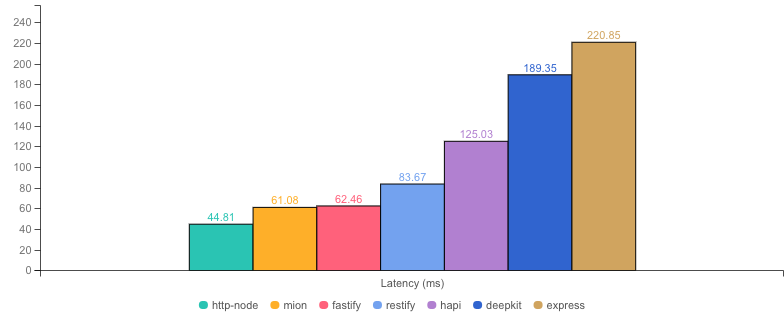
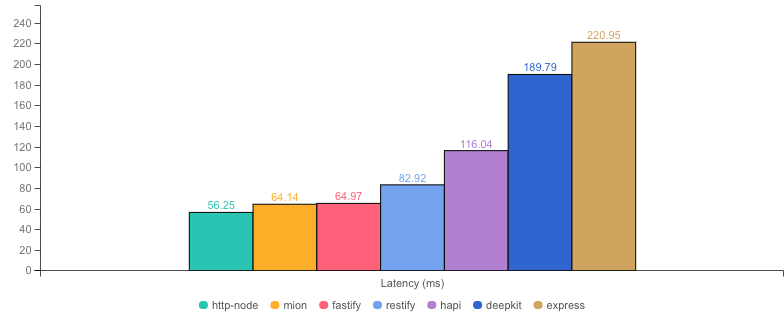
update some competitors libraries to lates version and fix mion benchmarks returning errors and run lates mion version 5d97e1c302cd3de043f1e435c154db6452047a0c

diff --git a/lib/autocannon.js b/lib/autocannon.js
@@ -32,10 +32,9 @@ const run = (opts = {}, handler) =>
     opts.method = "POST";
 
     // TODO: Move post param to pacakges
-    opts.body =
-      handler === "mion"
-        ? '{"updateUser":[{"id":123,"name":"john","surname":"smith","lastUpdate":"2020-12-17T02:24:00.000Z"}]}'
-        : '{"id":123,"name":"john","surname":"smith","lastUpdate":"2020-12-17T02:24:00.000Z"}';
+    opts.body = handler.includes("mion")
+      ? '{"updateUser":[{"id":123,"name":"john","surname":"smith","lastUpdate":"2020-12-17T02:24:00.000Z"}]}'
+      : '{"id":123,"name":"john","surname":"smith","lastUpdate":"2020-12-17T02:24:00.000Z"}';
     opts.headers = {
       accept: "*/*",
       "Content-Type": "application/json",
@@ -61,7 +60,7 @@ const run = (opts = {}, handler) =>
         }
       });
     }, 1000);
-    autocannon(opts, (err, result) => {
+    const atc = autocannon(opts, (err, result) => {
       clearInterval(memCheck);
       if (err) {
         reject(err);
@@ -75,6 +74,9 @@ const run = (opts = {}, handler) =>
         });
       }
     });
+    // atc.on("reqError", (err) => {
+    //   console.error(err);
+    // });
   });
 
 const writeResult = async (handler, result) => {

diff --git a/benchmarks/restify.js b/benchmarks/restify.js
@@ -43,14 +43,14 @@ const deserializeUser = (jsonParseResult) => {
 const server = restify.createServer();
 server.use(restify.plugins.bodyParser({}));
 
-server.post("/updateUser", function (req, res) {
+server.post("/updateUser", function (req, res, next) {
   const rawUser = req.body;
   if (!isUser(rawUser)) {
     res.statusCode = 400;
     res.send({
       error: "invalid parameter, not a user",
     });
-    return;
+    return next();
   }
   const user = deserializeUser(rawUser); // we would need to deserialize to be able to use date etc
   user.lastUpdate.setMonth(user.lastUpdate.getMonth() + 1);
@@ -60,9 +60,10 @@ server.post("/updateUser", function (req, res) {
   });
 });
 
-server.post("/", function (req, res) {
+server.post("/", function (req, res, next) {
   res.contentType = "json";
   res.send({ hello: "world" });
+  return next();
 });
 
 server.listen(3000);

diff --git a/lib/bench.js b/lib/bench.js
@@ -13,6 +13,11 @@ const doBench = async (opts, handler) => {
     forkedPid: forked.pid,
     ...opts,
   };
+
+  spinner.color = "magenta";
+  spinner.text = `starting server for ${handler}, waiting 3s`;
+  await new Promise((resolve) => setTimeout(resolve, 3000));
+
   try {
     // warm up only half the time
     const reducedTimeOpts = {

diff --git a/benchmarks/fastify.js b/benchmarks/fastify.js
@@ -76,4 +76,4 @@ fastify.post("/updateUser", updateUserOpts, async function (req, reply) {
   reply.send(user);
 });
 
-fastify.listen({ port: 3000, host: "127.0.0.1" });
+fastify.listen({ port: 3000, host: "localhost" });

diff --git a/benchmarks/mion-callbacks.js b/benchmarks/mion-callbacks.js
@@ -1,6 +1,5 @@
 "use strict";
 
-const { use } = require("h3");
 const {
   initHttp,
   addRoutes,

diff --git a/README.md b/README.md
@@ -98,9 +98,9 @@ Throughput is usually bigger on mion as we send/receive some more metadata in th
 ## Benchmark Results
 
 * __Machine:__ darwin x64 | 8 vCPUs | 16.0GB Mem
-* __Node:__ `v16.18.0`
-* __Run:__ Mon Jul 31 2023 02:20:30 GMT+0100 (Irish Standard Time)
-* __Method:__ `autocannon -c 100 -d 40.04 -p 10 localhost:3000` (two rounds; one to warm-up, one to measure)
+* __Node:__ `v18.17.0`
+* __Run:__ Mon Aug 07 2023 00:42:00 GMT+0100 (Irish Standard Time)
+* __Method:__ `autocannon -c 100 -d 42 -p 10 localhost:3000` (two rounds; one to warm-up, one to measure)
 
 #### Req (R/s) 
 
@@ -134,10 +134,10 @@ Throughput is usually bigger on mion as we send/receive some more metadata in th
 
 |           | Version        | Router | Req (R/s)   | Latency (ms) | Output (Mb/s) | Max Memory (Mb) | Max Cpu (%) | Validation | Description                                                                                                |
 | :--       | --:            | --:    | :-:         | --:          | --:           | --:             | --:         | :-:        | :--                                                                                                        |
-| http-node | 16.18.0        | ✗      | 22079.6     | 44.81        | 4.57          | 76              | 121         | ✗          | Super basic and completely useless bare http server, should be the theoretical upper limit in performance. |
-| **mion**  | **0.1.0**      | **✓**  | **16241.6** | **61.08**    | **4.49**      | **159**         | **143**     | **✓**      | **validation and serialization out of the box**                                                            |
-| fastify   | 4.19.2         | ✓      | 15876.0     | 62.46        | 3.83          | 86              | 121         | -          | Validation is done using schemas and ajv. Schemas must be generated manually or using third party tools.   |
-| restify   | 8.6.1          | ✓      | 11874.2     | 83.67        | 3.05          | 93              | 122         | ✗          | Requires third party tools.                                                                                |
-| hapi      | 20.3.0         | ✓      | 7956.1      | 125.03       | 1.91          | 97              | 126         | ✗          | Manual validation using joi, or third party tools.                                                         |
-| deepkit   | 1.0.1-alpha.75 | ✓      | 5261.4      | 189.35       | 1.26          | 171             | 152         | ✓          | Automatic validation out of the box (The ones that made @deepkit/types), Their rpc is way more performant. |
-| express   | 4.18.2         | ✓      | 4507.0      | 220.85       | 1.08          | 106             | 124         | ✗          | needs third party tools, or third party tools                                                              |
+| http-node | 16.18.0        | ✗      | 17610.1     | 56.25        | 4.23          | 85              | 116         | ✗          | Super basic and completely useless bare http server, should be the theoretical upper limit in performance. |
+| **mion**  | **0.1.0**      | **✓**  | **15472.0** | **64.14**    | **4.28**      | **108**         | **127**     | **✓**      | **validation and serialization out of the box**                                                            |
+| fastify   | 4.10.2         | ✓      | 15265.4     | 64.97        | 3.68          | 97              | 124         | -          | Validation is done using schemas and ajv. Schemas must be generated manually or using third party tools.   |
+| restify   | 11.1.0         | ✓      | 11976.2     | 82.92        | 3.07          | 129             | 118         | ✗          | Requires third party tools.                                                                                |
+| hapi      | 21.3.2         | ✓      | 8571.6      | 116.04       | 2.06          | 120             | 130         | ✗          | Manual validation using joi, or third party tools.                                                         |
+| deepkit   | 1.0.1-alpha.75 | ✓      | 5244.6      | 189.79       | 1.26          | 309             | 141         | ✓          | Automatic validation out of the box (The ones that made @deepkit/types), Their rpc is way more performant. |
+| express   | 4.18.2         | ✓      | 4504.6      | 220.95       | 1.08          | 120             | 125         | ✗          | needs third party tools, or third party tools                                                              |

diff --git a/MION-OPTIONS.md b/MION-OPTIONS.md
@@ -26,9 +26,9 @@ We show the benchmarks and let you take your own conclusions!!
 ## Benchmark Results
 
 * __Machine:__ darwin x64 | 8 vCPUs | 16.0GB Mem
-* __Node:__ `v16.18.0`
-* __Run:__ Mon Jul 31 2023 02:13:23 GMT+0100 (Irish Standard Time)
-* __Method:__ `autocannon -c 100 -d 40.04 -p 10 localhost:3000` (two rounds; one to warm-up, one to measure)
+* __Node:__ `v18.17.0`
+* __Run:__ Mon Aug 07 2023 00:57:59 GMT+0100 (Irish Standard Time)
+* __Method:__ `autocannon -c 100 -d 40.02 -p 10 localhost:3000` (two rounds; one to warm-up, one to measure)
 
 #### Req (R/s) 
 
@@ -54,12 +54,6 @@ We show the benchmarks and let you take your own conclusions!!
 
 
 
-#### Max Cpu (%) 
-
-![benchmarks](assets/public/charts-mion/maxCpu.png)
-
-
-
 #### Memory Series (MB) 
 
 ![benchmarks](assets/public/charts-mion/memSeries.png)
@@ -68,7 +62,7 @@ We show the benchmarks and let you take your own conclusions!!
 
 |                | Version   | Router | Req (R/s)   | Latency (ms) | Output (Mb/s) | Max Memory (Mb) | Max Cpu (%) | Validation | Description                                                          |
 | :--            | --:       | --:    | :-:         | --:          | --:           | --:             | --:         | :-:        | :--                                                                  |
-| http-node      | 16.18.0   | ✗      | 20317.2     | 48.73        | 4.20          | 82              | 129         | ✗          | theoretical upper limit in performance.                              |
-| **mion**       | **0.1.0** | **✓**  | **17263.2** | **57.42**    | **4.77**      | **101**         | **127**     | **✓**      | **using mion http with promises `HttpOptions.useCallbacks = false`** |
-| mion-callbacks | 0.1.0     | ✓      | 11537.6     | 86.12        | 4.82          | 87              | 132         | ✓          | using mion http with callbacks `HttpOptions.useCallbacks = true`     |
-| mion3000       | 0.1.0     | ✓      | 11247.6     | 88.34        | 4.70          | 98              | 125         | ✓          | mion with 3000 routes loaded (should have the most memory usage)     |
+| http-node      | 16.18.0   | ✗      | 17362.0     | 57.07        | 4.17          | 87              | 125         | ✗          | theoretical upper limit in performance.                              |
+| mion3000       | 0.1.0     | ✓      | 15597.2     | 63.59        | 4.31          | 119             | 123         | ✓          | mion with 3000 routes loaded (should have the most memory usage)     |
+| mion-callbacks | 0.1.0     | ✓      | 14824.0     | 66.91        | 4.10          | 157             | 141         | ✓          | using mion http with callbacks `HttpOptions.useCallbacks = true`     |
+| **mion**       | **0.1.0** | **✓**  | **14781.8** | **67.13**    | **4.09**      | **159**         | **143**     | **✓**      | **using mion http with promises `HttpOptions.useCallbacks = false`** |

diff --git a/COLD-STARTS.md b/COLD-STARTS.md
@@ -8,8 +8,8 @@ Cold start times are measure using the http server but are also indicative of ho
 
 ## Benchmark Results
 * __Machine:__ darwin x64 | 8 vCPUs | 16.0GB Mem
-* __Node:__ `v16.18.0`
-* __Run:__ Mon Jul 31 2023 02:22:51 GMT+0100 (Irish Standard Time)
+* __Node:__ `v18.17.0`
+* __Run:__ Mon Aug 07 2023 00:01:31 GMT+0100 (Irish Standard Time)
 * __Method:__ `npm run metrics` (samples: 5)
 * __startup:__ time elapsed to setup the application
 * __listen:__ time elapsed until the http server is ready to accept requests (cold start)
@@ -22,25 +22,25 @@ Cold start times are measure using the http server but are also indicative of ho
 
   | | startup(ms) | listen(ms) |
   |-| -           | -          |
-| 10-startup-deepkit-routes.js | 1363 | 1365 |
-| 10-startup-fastify-routes.js | 151 | 223 |
-| 10-startup-mion-routes.js | 76 | 85 |
-| 100-startup-deepkit-routes.js | 1348 | 1350 |
-| 100-startup-fastify-routes.js | 167 | 338 |
-| 100-startup-mion-routes.js | 75 | 84 |
-| 500-startup-deepkit-routes.js | 1361 | 1362 |
-| 500-startup-fastify-routes.js | 254 | 796 |
-| 500-startup-mion-routes.js | 75 | 87 |
-| 1000-startup-deepkit-routes.js | 1360 | 1362 |
-| 1000-startup-fastify-routes.js | 357 | 1352 |
-| 1000-startup-mion-routes.js | 75 | 91 |
-| 2000-startup-deepkit-routes.js | 1369 | 1370 |
-| 2000-startup-fastify-routes.js | 564 | 2428 |
-| 2000-startup-mion-routes.js | 76 | 106 |
-| 3000-startup-deepkit-routes.js | 1381 | 1383 |
-| 3000-startup-fastify-routes.js | 822 | 3651 |
-| 3000-startup-mion-routes.js | 76 | 117 |
-| 5000-startup-deepkit-routes.js | 1386 | 1387 |
-| 5000-startup-fastify-routes.js | 1787 | 6328 |
-| 5000-startup-mion-routes.js | 77 | 128 |
-| startup-listen.js | 76 | 81 |
+| 10-startup-deepkit-routes.js | 1217 | 1219 |
+| 10-startup-fastify-routes.js | 148 | 213 |
+| 10-startup-mion-routes.js | 73 | 83 |
+| 100-startup-deepkit-routes.js | 1230 | 1231 |
+| 100-startup-fastify-routes.js | 161 | 317 |
+| 100-startup-mion-routes.js | 73 | 83 |
+| 500-startup-deepkit-routes.js | 1226 | 1227 |
+| 500-startup-fastify-routes.js | 234 | 738 |
+| 500-startup-mion-routes.js | 72 | 84 |
+| 1000-startup-deepkit-routes.js | 1229 | 1231 |
+| 1000-startup-fastify-routes.js | 338 | 1243 |
+| 1000-startup-mion-routes.js | 72 | 88 |
+| 2000-startup-deepkit-routes.js | 1264 | 1265 |
+| 2000-startup-fastify-routes.js | 543 | 2304 |
+| 2000-startup-mion-routes.js | 74 | 98 |
+| 3000-startup-deepkit-routes.js | 1270 | 1272 |
+| 3000-startup-fastify-routes.js | 835 | 3500 |
+| 3000-startup-mion-routes.js | 74 | 106 |
+| 5000-startup-deepkit-routes.js | 1304 | 1305 |
+| 5000-startup-fastify-routes.js | 1878 | 6427 |
+| 5000-startup-mion-routes.js | 75 | 118 |
+| startup-listen.js | 73 | 79 |
